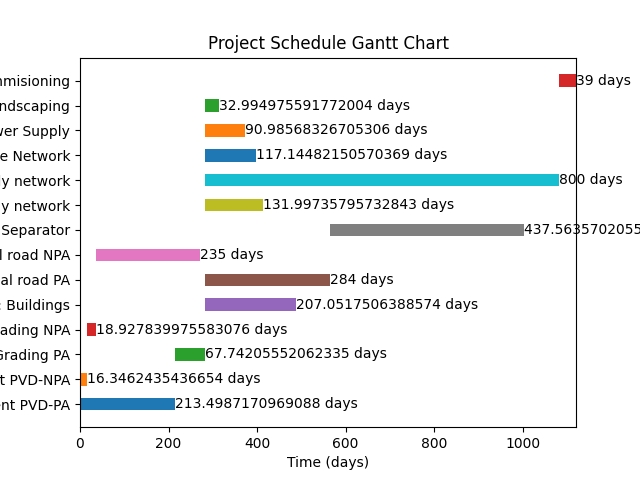
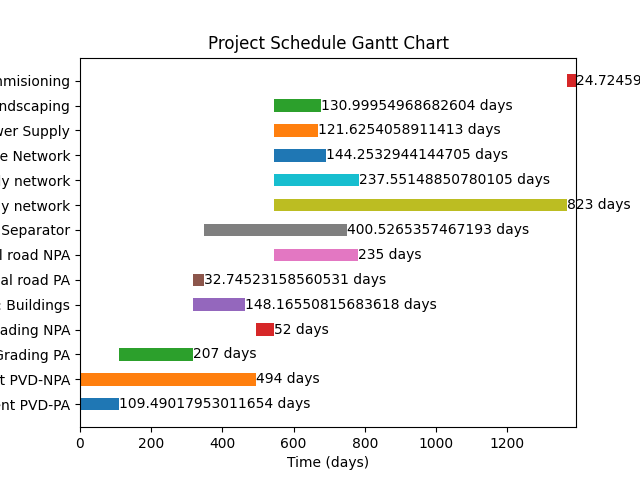
Image is display below the form and image put in the center

diff --git a/src/components/form_components/Taskform.tsx b/src/components/form_components/Taskform.tsx
@@ -1,6 +1,7 @@
 import React, { useState } from "react";
 import Tableinput from "./Tableinput";
 import { storeTaskData, getTaskData } from "../localStorage/localStorageUtils";
+import { v4 as uuidv4 } from "uuid";
 
 const Taskform = () => {
   const [projectname, setProjectName] = useState("");
@@ -12,20 +13,34 @@ const Taskform = () => {
   const handleSubmit = (e: any) => {
     e.preventDefault();
 
+    const activities = tableData.map((data) => ({
+      name: data.name,
+      duration: parseFloat(data.duration || 0),
+      cost: parseFloat(data.cost || 0),
+      predecessors: data.predecessors || [],
+      resource_requirements: [
+        parseFloat(data.man_power || 0),
+        parseFloat(data.machines || 0),
+        parseFloat(data.material || 0),
+      ],
+    }));
+
+    const requestData = {
+      project_name: projectname,
+      project_duration: planduration,
+      activities: activities,
+      userId: uuidv4(),
+    };
+
     fetch("http://127.0.0.1:5000/sez", {
       method: "POST",
-      body: JSON.stringify({
-        project_name: "name",
-        project_duration: "duration",
-        project_cost: "cost",
-        predecessors: "predecessors",
-        resource_requirements: "resource_requirements",
-        userId: Math.random().toString(36).slice(2),
-      }),
+      headers: {
+        "Content-Type": "application/json",
+      },
+      body: JSON.stringify(requestData),
     })
       .then((response) => response.json())
       .then((data) => {
-        // const myObj = JSON.parse(data);
         setImageContent(data.response);
         console.log("mydata " + data.response);
       });
@@ -109,7 +124,13 @@ const Taskform = () => {
         </button>
       </form>
 
-      <img src={imageContent} alt="Red dot" />
+      <div style={{ display: "flex", justifyContent: "center" }}>
+        <img
+          src={imageContent}
+          className="d-flex justify-content-center"
+          alt="Red dot"
+        />
+      </div>
     </div>
   );
 };

diff --git a/src/App.tsx b/src/App.tsx
@@ -1,7 +1,6 @@
 import Home from "./components/Home";
 import { Routes, Route, BrowserRouter as Router } from "react-router-dom";
 import Navbar from "./components/Navbar";
-import Ganttchart from "./components/Ganttchart";
 
 function App() {
   // const [count, setCount] = useState(0);
@@ -12,7 +11,6 @@ function App() {
         <Navbar />
         <Routes>
           <Route path="/" element={<Home />} />
-          <Route path="/ganttchart" element={<Ganttchart />} />
         </Routes>
       </Router>
     </>

diff --git a/src/components/Navbar.tsx b/src/components/Navbar.tsx
@@ -21,11 +21,6 @@ const Navbar = () => {
                   Home
                 </Link>
               </li>
-              <li className="nav-item">
-                <Link className="nav-link text-white" to="/ganttchart">
-                  Gantt Chart
-                </Link>
-              </li>
             </ul>
           </div>
         </div>

diff --git a/src/components/hello.py b/src/components/hello.py
@@ -6,8 +6,11 @@ from PIL import Image
 import io
 import base64
 import flask
+from flask_cors import CORS
+
 
 app = Flask(__name__)
+CORS(app)
 
 user_input_json_sample = {
     'project_name': 'name',
@@ -121,8 +124,8 @@ def createChartFromInputs():
 
     activities = []
 
-    json_from_request = user_input_json_sample
-    # json_from_request = request.get_json()
+    # json_from_request = user_input_json_sample
+    json_from_request = request.get_json()
 
     activities_json = json_from_request['activities']
     acivities_count = len(activities_json)
